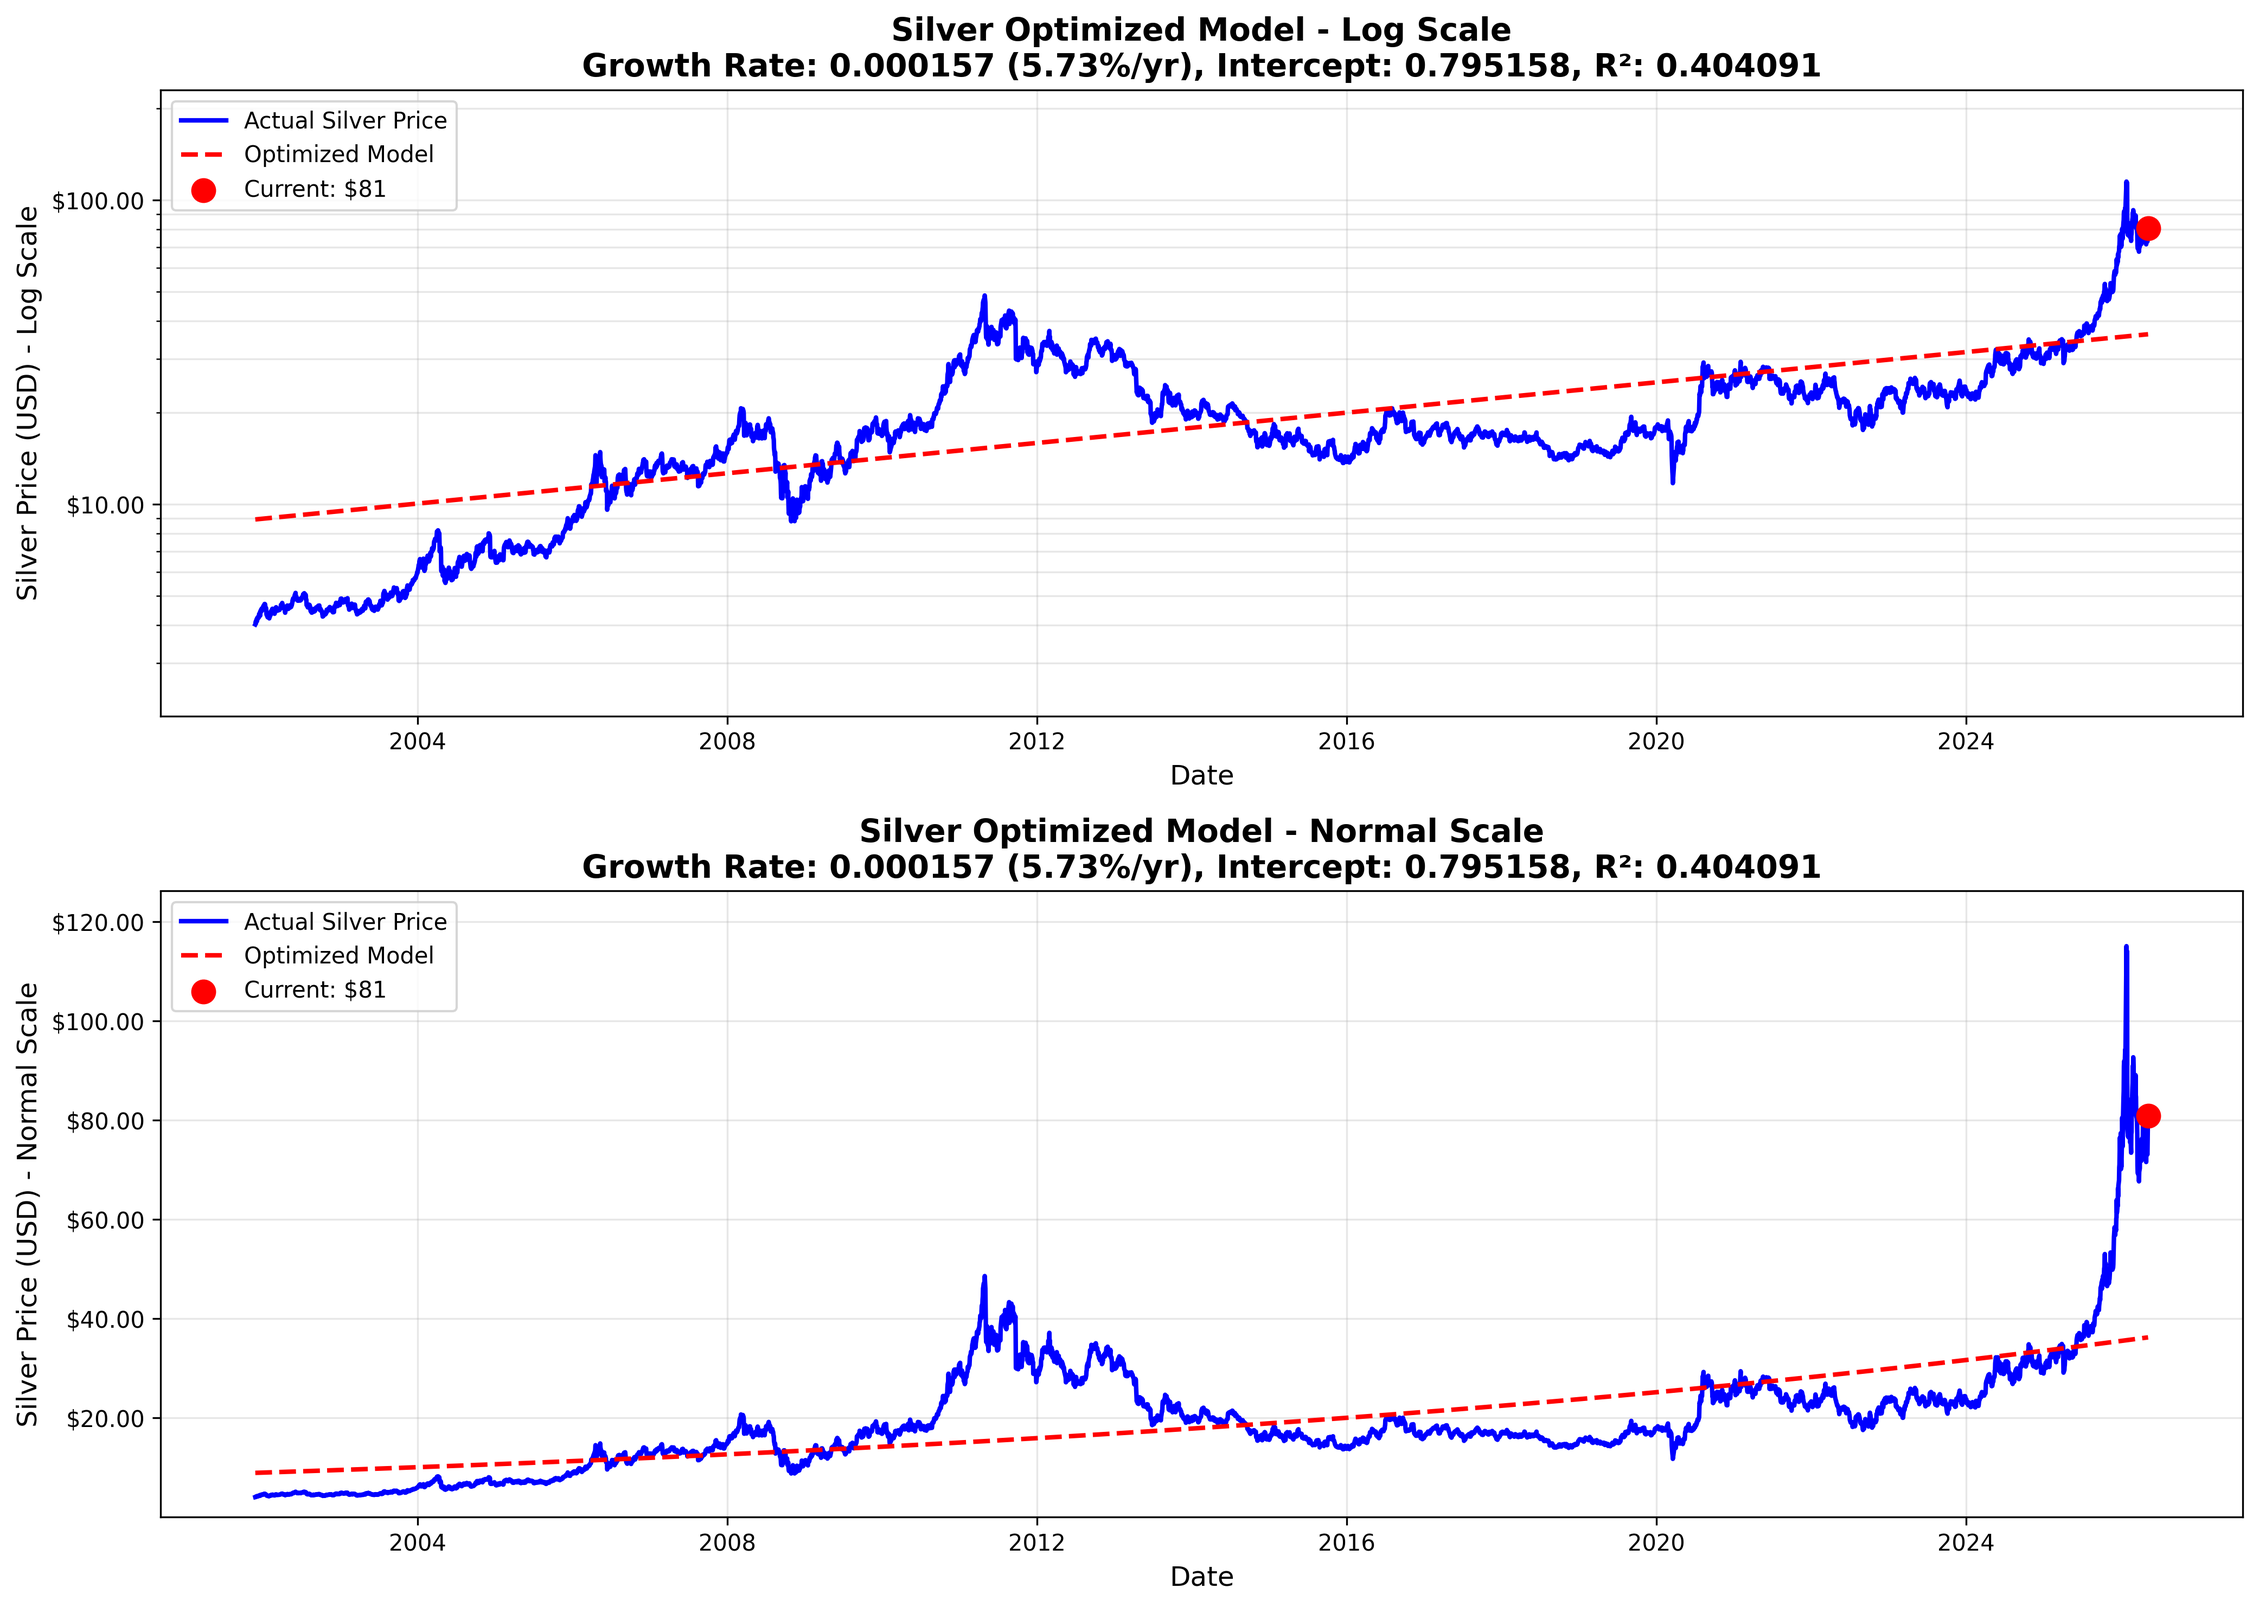
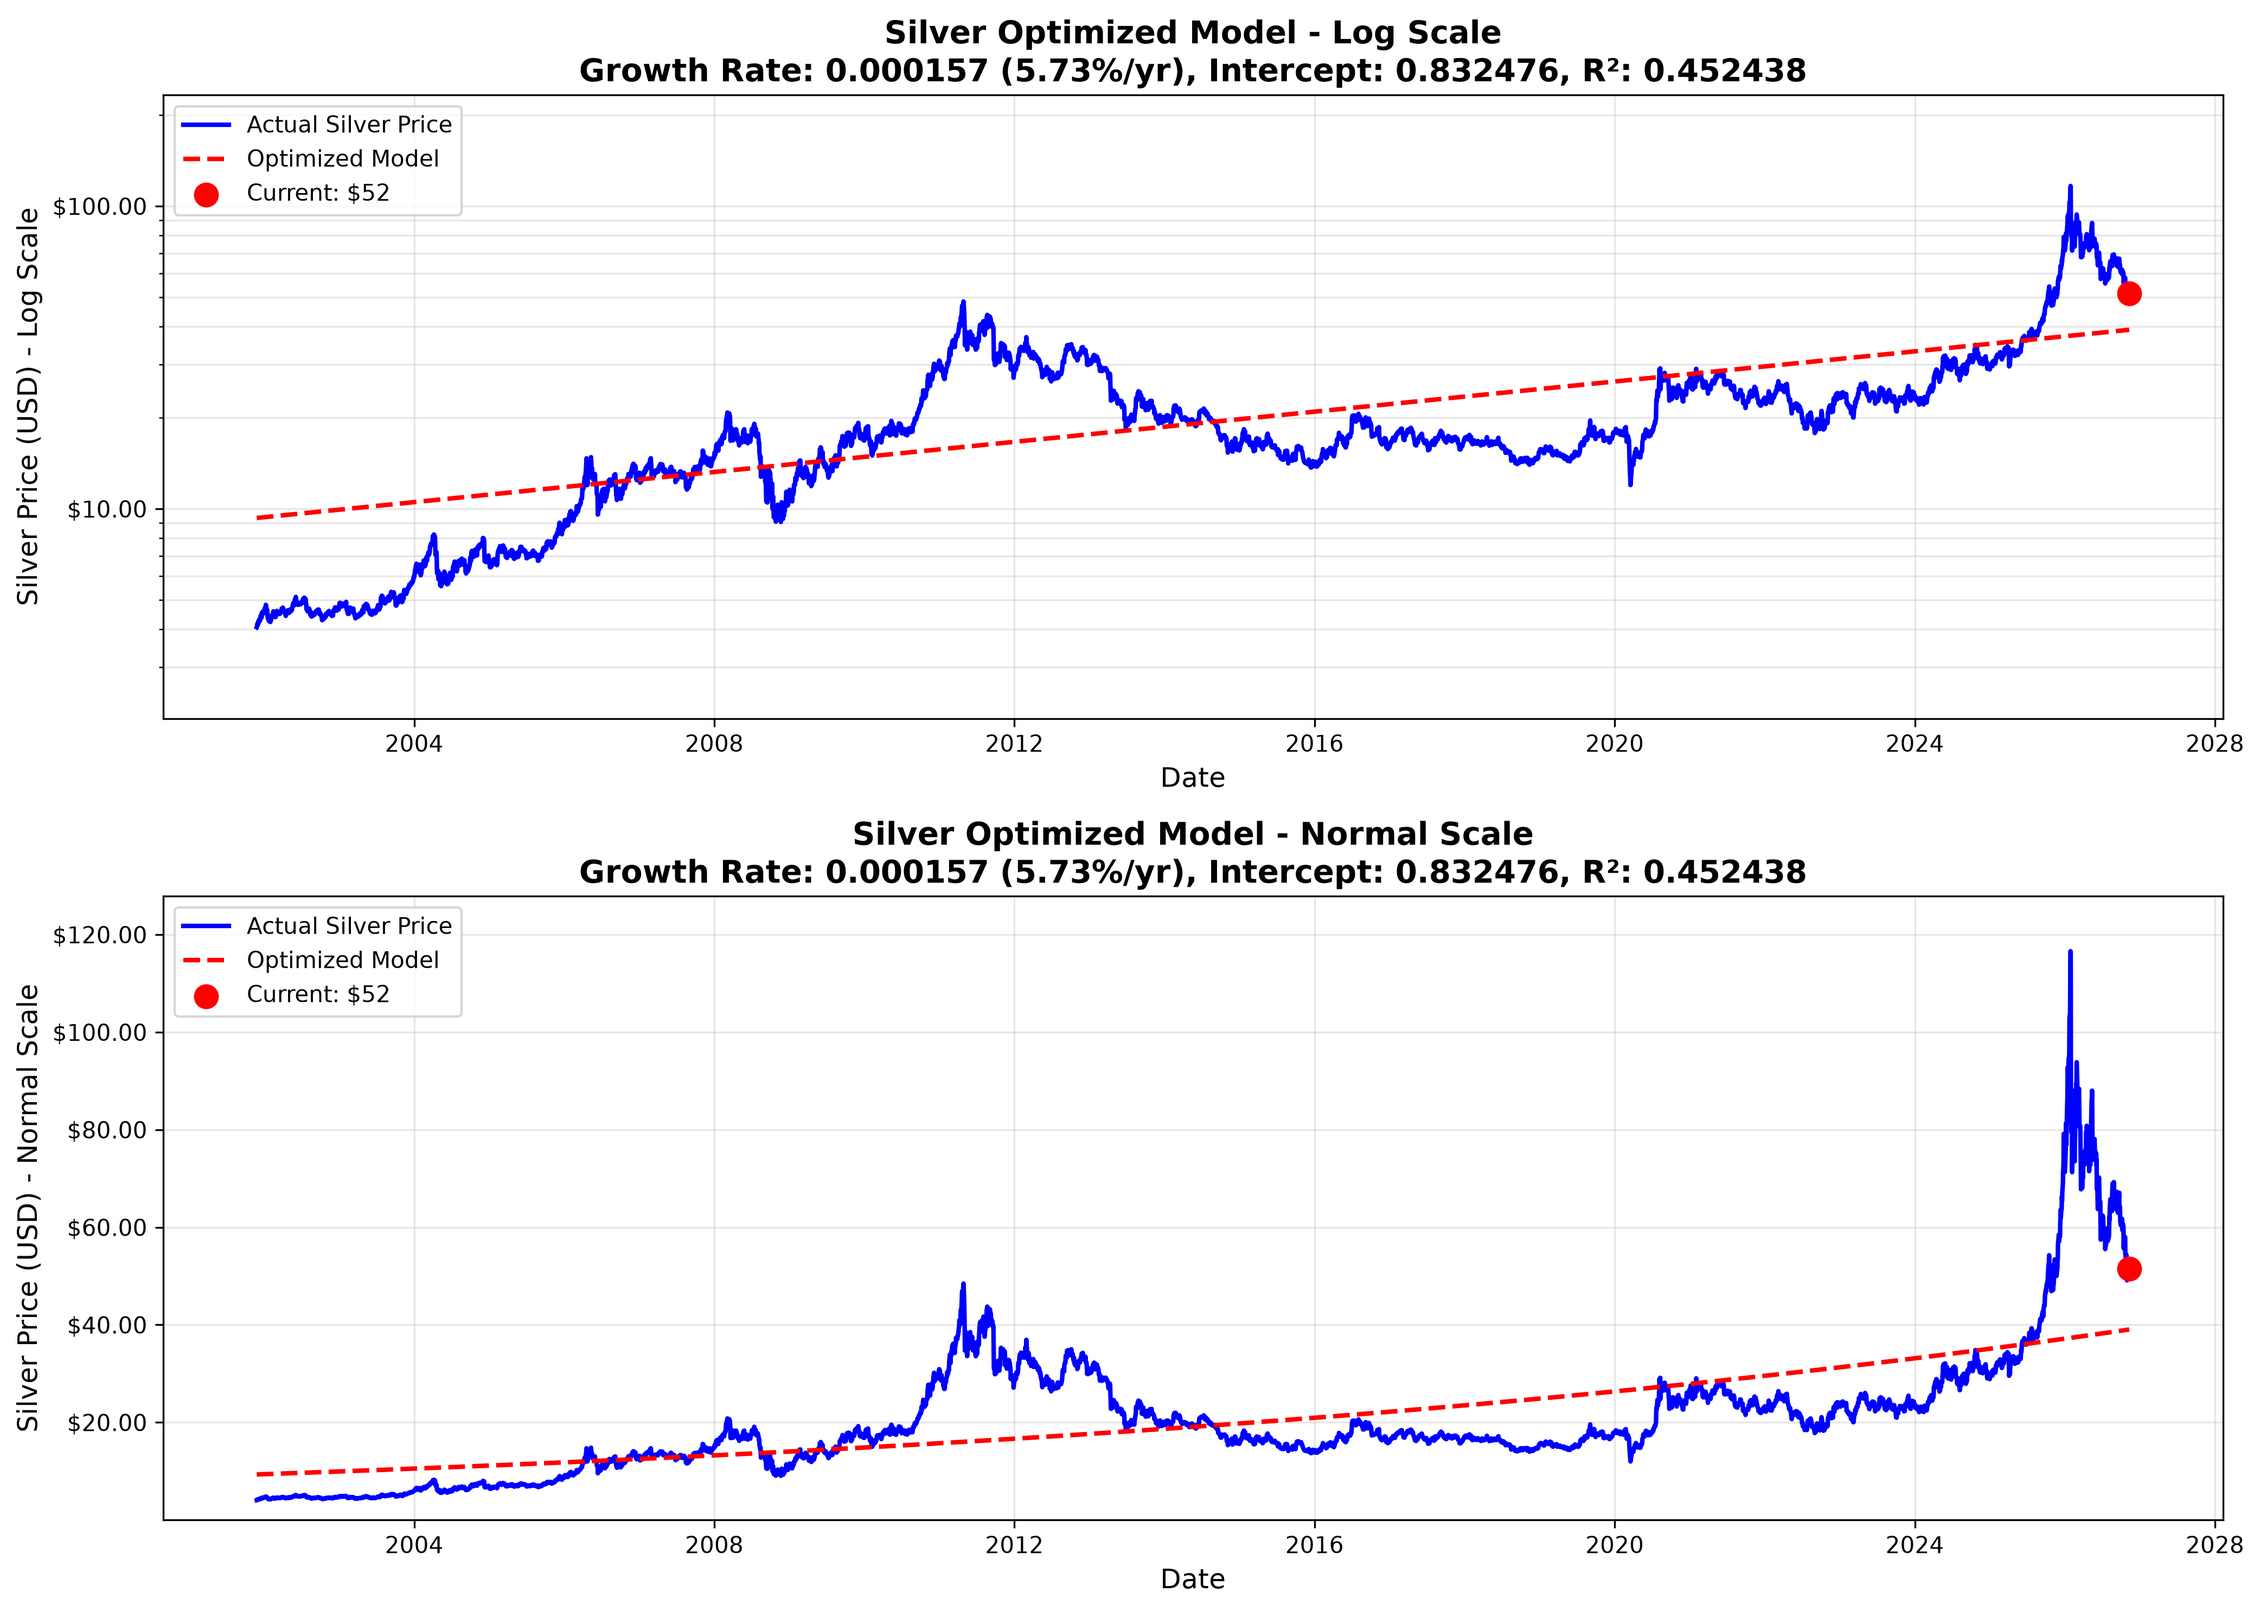
Switch silver to spot data in Commodities/Silver/Data
- Merged spot XAG/USD history (1982-present) into
  Commodities/Silver/Data/Silver_all_time_price.csv (gitignored, local only).
- exponential config and Models/Growth scripts now read that file.
- Pin GENESIS_DATE to 2000-08-30 so formula day offsets match earlier results.
- Regenerated silver intercept optimization output on spot data.

diff --git a/Commodities/Silver/exponential/config.py b/Commodities/Silver/exponential/config.py
@@ -19,7 +19,7 @@ YAHOO_TICKER = "SI=F"  # Yahoo Finance ticker symbol (e.g., "BTC-USD", "ETH-USD"
 # GENESIS_DATE is OPTIONAL - if not set, will auto-detect from earliest date in data file
 # Only set this if you want to use a specific launch date (e.g., actual crypto launch date)
 # GENESIS_DATE = "2015-07-30"  # Launch/genesis date (YYYY-MM-DD format) - OPTIONAL
-GENESIS_DATE = None  # Set to None to auto-detect from data, or specify a date string
+GENESIS_DATE = "2000-08-30"  # Day 0 used by earlier results (start of SI=F history); keeps formula offsets (e.g. day - 453) comparable
 
 START_DATE = "2001-11-26"  # Analysis start date - when to begin the rainbow chart analysis (YYYY-MM-DD format)
 # Leave as empty string "" to auto-detect from first date in data file
@@ -29,10 +29,10 @@ START_DATE = "2001-11-26"  # Analysis start date - when to begin the rainbow cha
 # FILE PATHS (relative to project root)
 # ============================================
 # Example: "Crypto/Etherium/Data"
-DATA_FOLDER = "Commodities/Silver/exponential"
+DATA_FOLDER = "Commodities/Silver/Data"
 
 # Example: "Ethereum Historical Data.csv"
-HISTORICAL_DATA_FILE = "Silver_historical_data.csv"
+HISTORICAL_DATA_FILE = "Silver_all_time_price.csv"
 
 # Example: "Crypto/Etherium/Models/Growth"
 OUTPUT_FOLDER = "Commodities/Silver/exponential"

diff --git a/Commodities/Silver/Models/Growth/silver_fixed_growth_rate.py b/Commodities/Silver/Models/Growth/silver_fixed_growth_rate.py
@@ -8,7 +8,7 @@ from datetime import datetime
 def load_silver_data():
     """Load the comprehensive silver data."""
     try:
-        df = pd.read_csv('Commodities/Silver/exponential/Silver_historical_data.csv')
+        df = pd.read_csv('Commodities/Silver/Data/Silver_all_time_price.csv')
         
         # Convert date column
         df['Date'] = pd.to_datetime(df['Date'], errors='coerce')

diff --git a/Commodities/Silver/Models/Growth/silver_simple_interactive.py b/Commodities/Silver/Models/Growth/silver_simple_interactive.py
@@ -8,7 +8,7 @@ import os
 def load_silver_data():
     """Load the comprehensive silver data."""
     try:
-        df = pd.read_csv('Commodities/Silver/exponential/Silver_historical_data.csv')
+        df = pd.read_csv('Commodities/Silver/Data/Silver_all_time_price.csv')
         
         # Convert date column
         df['Date'] = pd.to_datetime(df['Date'], errors='coerce')
